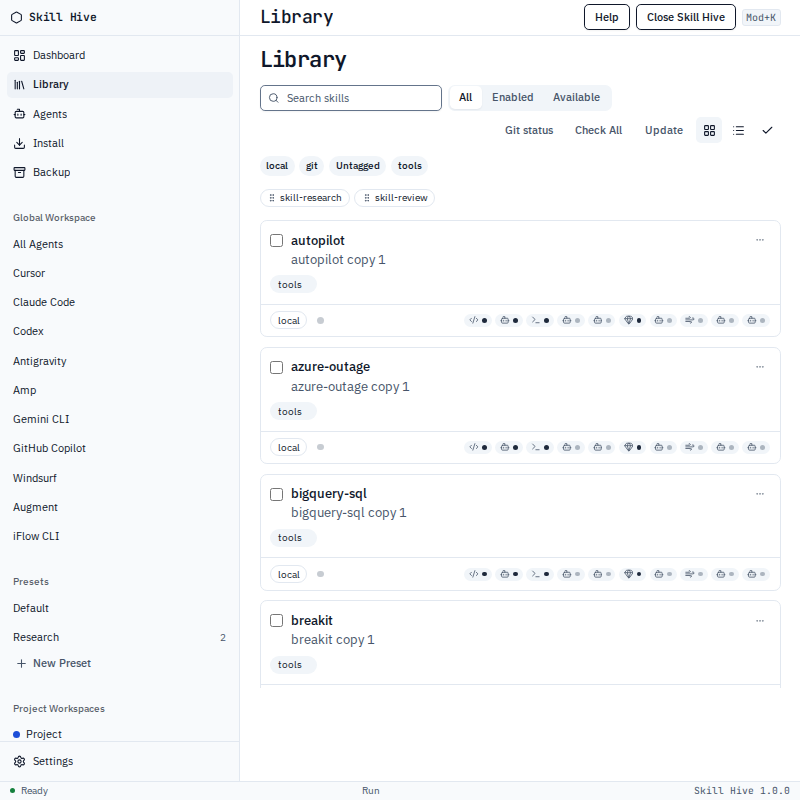
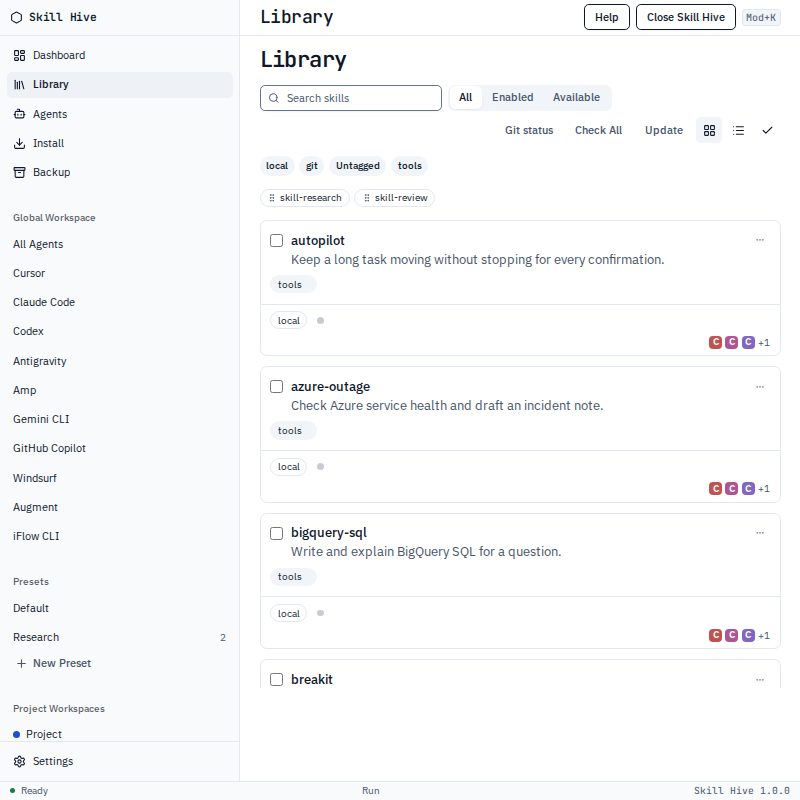
Compact library cards and align the agent path fields
Card footers show at most three installed-agent letter tiles plus an overflow count, and the source label sits on its own row. Duplicate crowd rows keep one realistic description. Settings labels the global path, aligns the project path with it, and labels the new-agent fields. Error-boundary shots cover a route crash and a top-level crash.

diff --git a/src/features/settings/SettingsView.tsx b/src/features/settings/SettingsView.tsx
@@ -232,14 +232,20 @@ export function SettingsView({
           </div>
           {refreshed ? <p role="status">{t("settings.agents.refreshed")}</p> : null}
           <form
-            className="mt-3 flex flex-wrap items-center gap-2"
+            className="mt-3 flex flex-wrap items-end gap-2"
             onSubmit={(event) => {
               event.preventDefault();
               void onAddAgent(agentName, agentPath);
             }}
           >
-            <Input aria-label="Agent name" value={agentName} onChange={(event) => setAgentName(event.target.value)} className="h-8 w-56 shrink-0" />
-            <Input aria-label="Agent path" value={agentPath} onChange={(event) => setAgentPath(event.target.value)} className="h-8 w-56 shrink-0" />
+            <label className="block text-sm">
+              {t("settings.agents.name")}
+              <Input aria-label={t("settings.agents.name")} placeholder={t("settings.agents.namePlaceholder")} value={agentName} onChange={(event) => setAgentName(event.target.value)} className="mt-1 h-8 w-56" />
+            </label>
+            <label className="block text-sm">
+              {t("settings.agents.path")}
+              <Input aria-label={t("settings.agents.path")} placeholder={t("settings.agents.pathPlaceholder")} value={agentPath} onChange={(event) => setAgentPath(event.target.value)} className="mt-1 h-8 w-56" />
+            </label>
             <Button type="button" variant="outline" size="sm" onClick={() => void pickPath(true).then((selected) => selected && setAgentPath(selected))}>Browse</Button>
             <Button type="submit" size="sm">{t("settings.agents.new")}</Button>
           </form>
@@ -269,14 +275,16 @@ export function SettingsView({
                 </label>
                 <span className="ml-2 text-muted-foreground">{agent.enabled ? "Enabled" : "Disabled"}</span>
                 <span className="ml-2 text-muted-foreground">{agent.installed ? "Detected" : "Other supported"}</span>
-                <label className="mt-1 block">
-                  {t("settings.agents.reset")}
-                  <Input aria-label={`${t("settings.agents.reset")} ${agent.name}`} value={agent.path} onChange={(event) => { const pathValue = event.target.value; void onAgents(agents.map((item) => item.key === agent.key ? { ...item, path: pathValue } : item)); void setCustomToolPath(agent.key, pathValue); }} className="mt-1 h-8 max-w-xl" />
+                <div className="mt-2 grid gap-2">
+                <label className="grid grid-cols-[7.5rem_minmax(0,1fr)] items-center gap-2">
+                  <span>{t("settings.agents.global")}</span>
+                  <Input aria-label={`${t("settings.agents.global")} ${agent.name}`} value={agent.path} onChange={(event) => { const pathValue = event.target.value; void onAgents(agents.map((item) => item.key === agent.key ? { ...item, path: pathValue } : item)); void setCustomToolPath(agent.key, pathValue); }} className="h-8 w-full" />
                 </label>
-                <label className="mt-1 block">
-                  {t("settings.agents.project")}
-                  <Input aria-label={`${t("settings.agents.project")} ${agent.name}`} value={agent.projectPath} onChange={(event) => { const pathValue = event.target.value; void onAgents(agents.map((item) => item.key === agent.key ? { ...item, projectPath: pathValue } : item)); void setCustomToolProjectPath(agent.key, pathValue); }} className="mt-1 h-8 max-w-xl" />
+                <label className="grid grid-cols-[7.5rem_minmax(0,1fr)] items-center gap-2">
+                  <span>{t("settings.agents.project")}</span>
+                  <Input aria-label={`${t("settings.agents.project")} ${agent.name}`} value={agent.projectPath} onChange={(event) => { const pathValue = event.target.value; void onAgents(agents.map((item) => item.key === agent.key ? { ...item, projectPath: pathValue } : item)); void setCustomToolProjectPath(agent.key, pathValue); }} className="h-8 w-full" />
                 </label>
+                </div>
                 <Button type="button" variant="outline" size="sm" className="mt-1" onClick={() => { void silent("reset_custom_tool_project_path", { key: agent.key }); Promise.resolve(onResetPath(agent.key)).then((next) => { if (next) return onAgents(agents.map((item) => item.key === agent.key ? { ...item, path: next } : item)); }); }}>{t("settings.agents.reset")}</Button>
                 {agent.custom ? (
                   <Button type="button" variant="outline" size="sm" className="ml-2 mt-1" onClick={() => { void onAgents(agents.filter((item) => item.key !== agent.key)); void removeCustomTool(agent.key); }}>{t("settings.agents.remove")} {agent.name}</Button>

diff --git a/src/features/library/LibraryView.tsx b/src/features/library/LibraryView.tsx
@@ -113,6 +113,36 @@ function AgentPlacement({
   );
 }
 
+function letterHue(key: string): number {
+  let hash = 0;
+  for (const char of key) hash = (hash * 33 + char.charCodeAt(0)) >>> 0;
+  return hash % 360;
+}
+
+function InstalledTiles({ skill, agents }: { skill: SkillCard; agents: AgentRow[] }) {
+  const installed = skill.agents.map((key) => ({ key, name: agentDisplayName(key, agents) }));
+  const shown = installed.slice(0, 3);
+  const extra = installed.length - shown.length;
+  const names = installed.map((agent) => agent.name).join(", ");
+  return (
+    <div className="flex items-center justify-end gap-1" data-testid={`sync-dots-${skill.id}`} title={names}>
+      {shown.map((agent) => (
+        <span
+          key={agent.key}
+          data-filled="true"
+          title={agent.name}
+          aria-label={agent.name}
+          className="inline-flex size-4 shrink-0 items-center justify-center rounded-[4px] text-[10px] font-semibold leading-none text-white"
+          style={{ backgroundColor: `oklch(0.58 0.14 ${letterHue(agent.key)})` }}
+        >
+          {agent.name.trim().slice(0, 1).toUpperCase() || "?"}
+        </span>
+      ))}
+      {extra > 0 ? <span className="text-xs text-muted-foreground" title={names}>+{extra}</span> : null}
+    </div>
+  );
+}
+
 export function LibraryView({
   skills,
   initialId,
@@ -487,10 +517,10 @@ export function LibraryView({
                   </PopoverContent>
                 </Popover>
               </div>
-              <div className="mt-3 flex items-center justify-between gap-2 border-t border-border px-3 py-2">
-                <div className="flex min-w-0 items-center gap-2">
-                  <Badge variant="outline" className="font-normal">{skill.source}</Badge>
-                  <span className="relative inline-flex size-4 items-center justify-center" title={t("library.membership")}>
+              <div className="mt-3 space-y-2 border-t border-border px-3 py-2">
+                <div className="flex flex-wrap items-center gap-2">
+                  <Badge variant="outline" className="shrink-0 whitespace-nowrap font-normal">{skill.source}</Badge>
+                  <span className="relative inline-flex size-4 shrink-0 items-center justify-center" title={t("library.membership")}>
                     <span
                       aria-hidden="true"
                       className={cn("size-2 rounded-full", memberIds.includes(skill.id) ? "bg-primary shadow-[0_0_0_3px_var(--muted)]" : "bg-muted-foreground/30")}
@@ -502,20 +532,9 @@ export function LibraryView({
                       className="absolute inset-0 opacity-0 focus-visible:opacity-100"
                     />
                   </span>
-                  {memberIds.includes(skill.id) ? <span className="truncate text-xs text-muted-foreground">{presetName}</span> : null}
+                  {memberIds.includes(skill.id) ? <span className="whitespace-nowrap text-xs text-muted-foreground">{presetName}</span> : null}
                 </div>
-                <div className="flex gap-1" data-testid={`sync-dots-${skill.id}`}>
-                  {detectedAgents(catalogAgents).map((agent) => {
-                    const filled = skill.agents.includes(agent.key);
-                    const Icon = agentIcon(agent.key);
-                    return (
-                      <button key={agent.key} type="button" data-filled={filled ? "true" : "false"} title={agent.name} aria-label={agent.name} className="inline-flex items-center gap-1 rounded-full bg-muted px-1.5 py-0.5 text-[10px] font-medium text-muted-foreground" onClick={() => onToggleAgent(skill.id, agent.key)}>
-                        <Icon className="size-3" aria-hidden="true" />
-                        <span className={cn("size-1.5 rounded-full", filled ? "bg-primary" : "bg-muted-foreground/40")} aria-hidden="true" />
-                      </button>
-                    );
-                  })}
-                </div>
+                <InstalledTiles skill={skill} agents={catalogAgents} />
               </div>
             </Card>
           </li>

diff --git a/e2e/library-grid.spec.ts b/e2e/library-grid.spec.ts
@@ -114,6 +114,32 @@ for (const theme of ["light", "dark"] as const) {
     });
   });
 
+  test(`error boundary ${theme}`, async ({ page }) => {
+    await prepare(page, theme, 1100, {});
+    await page.goto("/my-skills?crash=route");
+    await expect(page.getByTestId("sidebar")).toBeVisible();
+    await expect(page.getByTestId("route-error")).toBeVisible();
+    await expect(page.getByText("Route render failed")).toBeVisible();
+    if (await page.locator("vite-error-overlay").count()) {
+      await page.locator("vite-error-overlay").evaluate((node) => node.remove());
+    }
+    await page.screenshot({
+      path: `docs/parity/screenshots/${theme}/error-route.png`,
+      fullPage: false,
+    });
+    await page.goto("/?crash=app");
+    await expect(page.getByTestId("route-error")).toBeVisible();
+    await expect(page.getByText("Top-level render failed")).toBeVisible();
+    await expect(page.getByTestId("sidebar")).toHaveCount(0);
+    if (await page.locator("vite-error-overlay").count()) {
+      await page.locator("vite-error-overlay").evaluate((node) => node.remove());
+    }
+    await page.screenshot({
+      path: `docs/parity/screenshots/${theme}/error-app.png`,
+      fullPage: false,
+    });
+  });
+
   test(`install scan ${theme}`, async ({ page }) => {
     await prepare(page, theme, 1100, { "skill-hive-preview-agents": "1" });
     await page.goto("/install?tab=scan");

diff --git a/src/components/shell/AppShell.tsx b/src/components/shell/AppShell.tsx
@@ -54,7 +54,7 @@ import { applyTextSize, isTextSize, setLocale, t } from "../../lib/i18n";
 import { demoEnabled } from "@/lib/demo";
 import { jobLabel } from "@/lib/job-label";
 import { DataPhaseContext, RetryContext } from "@/lib/view-state";
-import { RouteErrorBoundary } from "@/components/RouteError";
+import { DevCrash, RouteErrorBoundary } from "@/components/RouteError";
 import { listAgents, listPresets, listSkills, type AgentRow, type PresetRow } from "@/lib/ipc/catalog";
 import { createPreset, deletePreset, rebuildTrayMenu, reorderPresets, setToolOrder, silent, switchPreset, updatePreset } from "@/lib/ipc/actions";
 import { writeSetting } from "@/lib/ipc/catalog";
@@ -566,6 +566,7 @@ export function AppShell({ platform = "linux" }: { platform?: string }) {
               <DataPhaseContext.Provider value={dataPhase}>
               <RetryContext.Provider value={retryData}>
               <RouteErrorBoundary route={location.pathname}>
+              <DevCrash level="route">
               <Outlet
                 context={{
                   listing: listing.data ?? [],
@@ -584,6 +585,7 @@ export function AppShell({ platform = "linux" }: { platform?: string }) {
                   },
                 }}
               />
+              </DevCrash>
               </RouteErrorBoundary>
               </RetryContext.Provider>
               </DataPhaseContext.Provider>

diff --git a/src/App.tsx b/src/App.tsx
@@ -32,7 +32,7 @@ import {
   unsyncSkillFromTool,
 } from "@/lib/ipc/actions";
 import { groupSkillCards, type SkillCard } from "@/features/library/model";
-import { RouteErrorBoundary } from "@/components/RouteError";
+import { DevCrash, RouteErrorBoundary } from "@/components/RouteError";
 import type { WorkspaceCard } from "./features/workspace/WorkspaceView";
 import { PlaceholderView, TokensView } from "./views/Screens";
 import { DashboardView } from "./features/dashboard/DashboardView";
@@ -306,6 +306,7 @@ export function App({ client }: { client: QueryClient }) {
       <TooltipProvider>
         <FrontendErrorLog />
         <RouteErrorBoundary>
+        <DevCrash level="app">
         <Routes>
           <Route element={<AppShell platform={platform} />}>
             {APP_ROUTES.map((route) => (
@@ -313,6 +314,7 @@ export function App({ client }: { client: QueryClient }) {
             ))}
           </Route>
         </Routes>
+        </DevCrash>
         </RouteErrorBoundary>
       </TooltipProvider>
     </QueryClientProvider>

diff --git a/src/lib/crowd.ts b/src/lib/crowd.ts
@@ -22,6 +22,12 @@ export function previewLibrary(): SkillCard[] {
 }
 
 const DUPLICATES = ["autopilot", "azure-outage", "bigquery-sql", "breakit"] as const;
+const DUPLICATE_DESCRIPTIONS: Record<(typeof DUPLICATES)[number], string> = {
+  autopilot: "Keep a long task moving without stopping for every confirmation.",
+  "azure-outage": "Check Azure service health and draft an incident note.",
+  "bigquery-sql": "Write and explain BigQuery SQL for a question.",
+  breakit: "Find a small breaking case for the change under review.",
+};
 const HOSTS = ["claude_code", "codex", "cursor", "gemini_cli", "github_copilot", "windsurf", "amp", "antigravity", "augment", "iflow"];
 
 export function crowdEnabled(): boolean {
@@ -36,7 +42,7 @@ export function crowdSkills(): SkillCard[] {
       rows.push({
         id: `${name}-${agent}`,
         name,
-        description: `${name} copy ${index + 1}`,
+        description: DUPLICATE_DESCRIPTIONS[name],
         source: "local",
         tags: index === 0 ? ["tools"] : [],
         enabled: true,

diff --git a/src/features/library/model.ts b/src/features/library/model.ts
@@ -22,6 +22,10 @@ export interface SkillCard {
   locations?: string[];
 }
 
+function copyStamp(description: string): boolean {
+  return / copy \d+$/i.test(description.trim());
+}
+
 export function groupSkillCards(skills: SkillCard[]): SkillCard[] {
   const grouped: SkillCard[] = [];
   for (const skill of skills) {
@@ -33,6 +37,9 @@ export function groupSkillCards(skills: SkillCard[]): SkillCard[] {
     }
     existing.agents = [...new Set([...existing.agents, ...skill.agents])];
     existing.locations = [...new Set([...(existing.locations ?? []), ...(skill.locations ?? [])])];
+    if (skill.description && (!existing.description || (copyStamp(existing.description) && !copyStamp(skill.description)))) {
+      existing.description = skill.description;
+    }
   }
   return grouped;
 }

diff --git a/src/features/library/model.test.ts b/src/features/library/model.test.ts
@@ -59,6 +59,15 @@ describe("library filter and diff", () => {
     expect(grouped[0].locations).toEqual(["/a", "/b"]);
   });
 
+  it("keeps one description when copies were stamped copy N", () => {
+    const copies: SkillCard[] = [
+      { ...skills[0], id: "one", name: "autopilot", description: "autopilot copy 1", agents: ["claude_code"] },
+      { ...skills[0], id: "two", name: "autopilot", description: "Keep a long task moving", agents: ["codex"] },
+    ];
+    expect(groupSkillCards(copies)).toHaveLength(1);
+    expect(groupSkillCards(copies)[0].description).toBe("Keep a long task moving");
+  });
+
   it("labels preset fill", () => {
     expect(presetFill(2, 2)).toBe("active");
     expect(presetFill(1, 2)).toBe("partial");

diff --git a/src/features/parity-ui.test.tsx b/src/features/parity-ui.test.tsx
@@ -68,7 +68,9 @@ describe("ui parity invokes", () => {
     const user = userEvent.setup();
     renderAt("/my-skills");
     expect(await screen.findByText("research-notes")).toBeInTheDocument();
-    await user.click((await screen.findAllByTitle("Claude Code"))[0]);
+    await user.click(screen.getByRole("button", { name: /^research-notes/ }));
+    await user.click(screen.getByRole("button", { name: "Add to agent" }));
+    await user.click(screen.getByRole("button", { name: "Claude Code" }));
     expect(calls("sync_skill_to_tool").some((entry) => entry.args.tool === "claude_code" && entry.args.skillId === "skill-research")).toBe(true);
 
     await user.click(screen.getByRole("link", { name: /Tools/ }));

diff --git a/src/components/RouteError.tsx b/src/components/RouteError.tsx
@@ -1,4 +1,15 @@
 import { Component, type ReactNode } from "react";
+
+/** Dev-only throw so screenshots can show each error boundary. */
+export function DevCrash({ level, children }: { level: "app" | "route"; children: ReactNode }) {
+  if (import.meta.env.DEV && typeof window !== "undefined") {
+    const crash = new URLSearchParams(window.location.search).get("crash");
+    if (crash === level) {
+      throw new Error(level === "app" ? "Top-level render failed" : "Route render failed");
+    }
+  }
+  return children;
+}
 import { Button } from "@/components/ui/button";
 import { silent } from "@/lib/ipc/actions";
 import { t } from "@/lib/i18n";

diff --git a/src/features/settings/view.test.tsx b/src/features/settings/view.test.tsx
@@ -27,7 +27,7 @@ describe("settings", () => {
     expect(screen.getByText("Enabled")).toBeInTheDocument();
     await user.click(screen.getByRole("button", { name: "Refresh" }));
     expect(screen.getByText("Agents refreshed")).toBeInTheDocument();
-    const path = screen.getByRole("textbox", { name: "Reset path Claude Code" });
+    const path = screen.getByRole("textbox", { name: "Global path Claude Code" });
     await user.clear(path);
     await user.type(path, "/tmp/claude");
     await user.click(screen.getByRole("button", { name: "Reset path" }));
